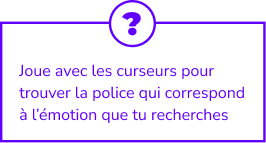
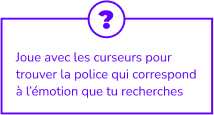
modifier la taille des consignes

diff --git a/docs/css/indesign.css b/docs/css/indesign.css
@@ -29,8 +29,8 @@ main {
   position: absolute;
   right:6%;
   top: 12%;
-  width: 312px;
-  height: 168px;
+  width: 213px;
+  height: 128px;
   background-image: url("../img/circulaire.png");
   background-position: center;
   background-repeat: no-repeat;
